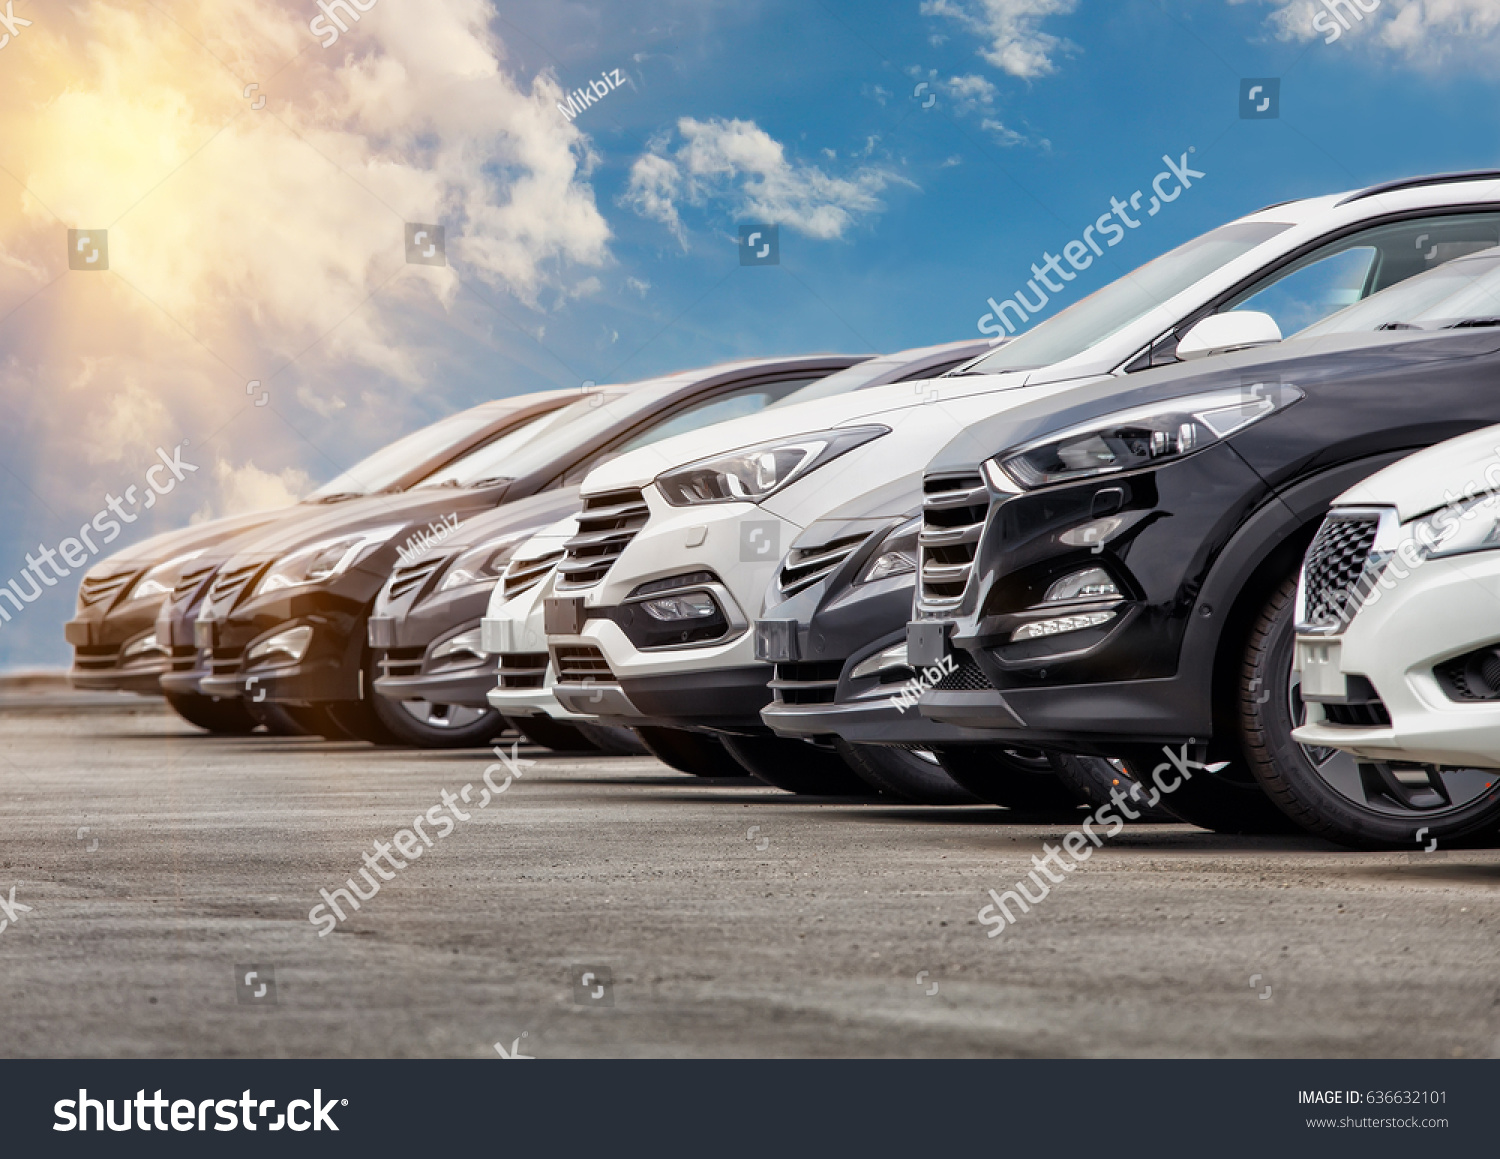
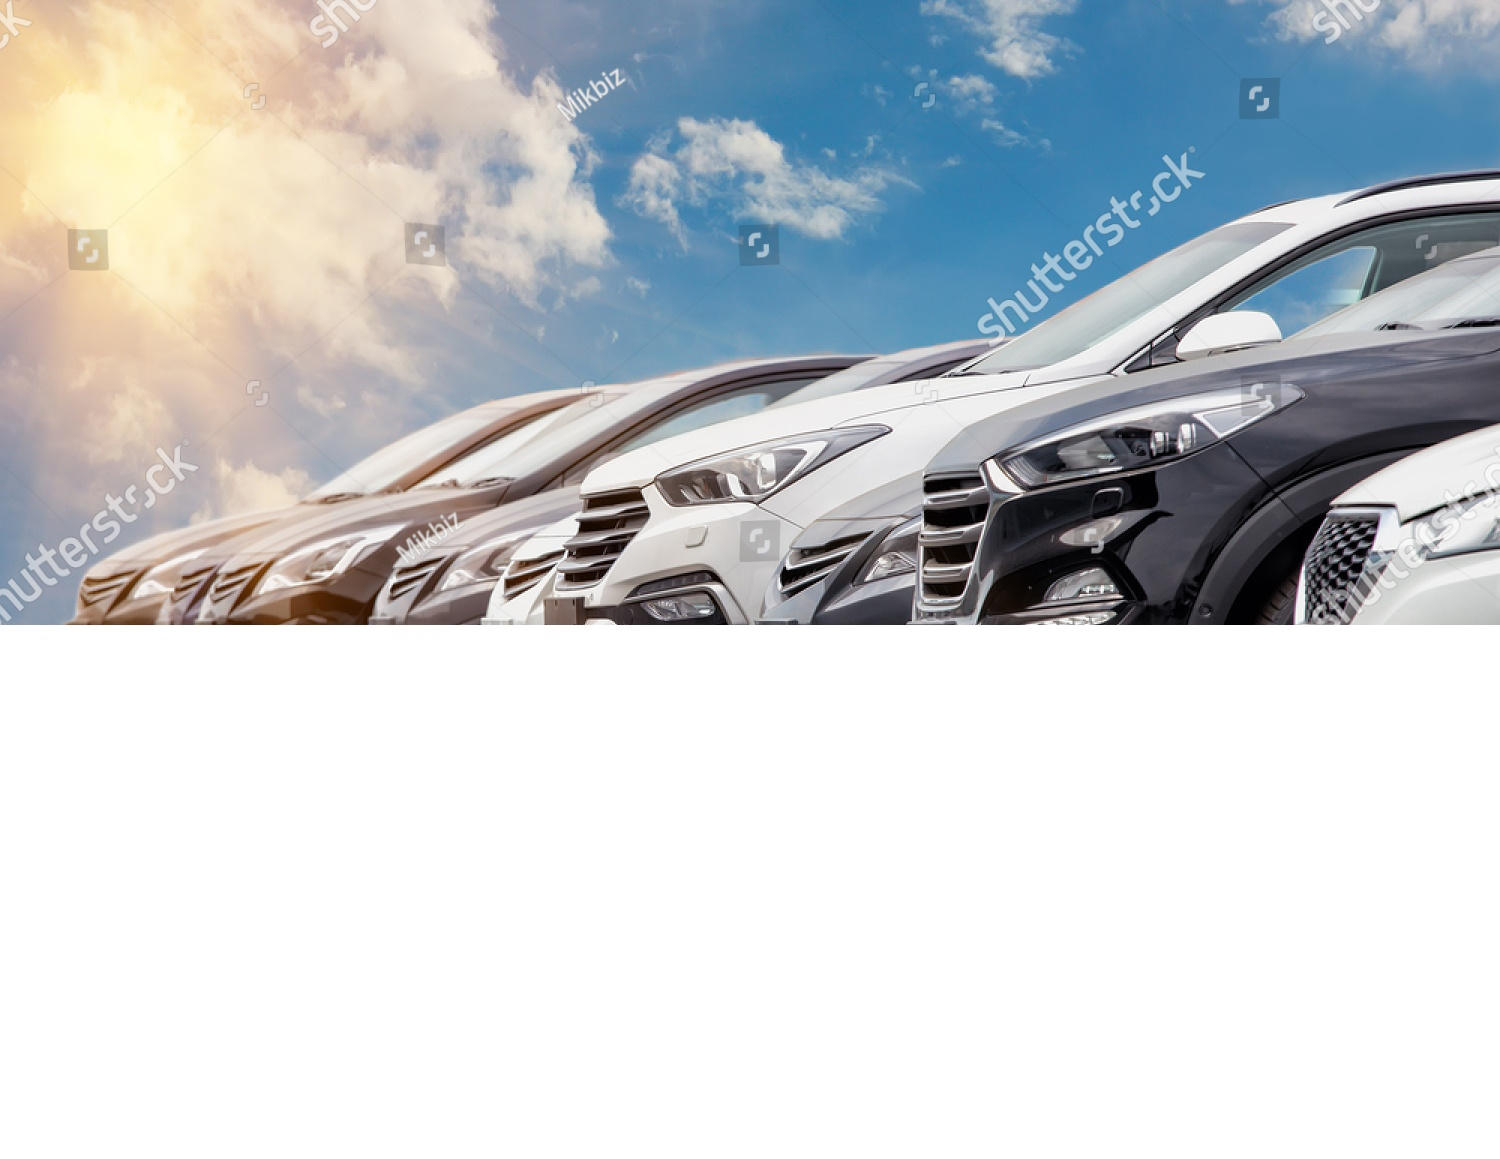
feat: update

diff --git a/index.html b/index.html
@@ -11,17 +11,16 @@
 
 <body>
     <header id="mainHeader">
-        <!-- Top Header -->
-        <div id="topHeader">
-            <!-- Main Title-->
-            <div>
+
+        <div id="topHeader"> <!-- Top header -->
+
+            <div> <!-- Main title-->
                 <a href="index.html" id="mainTitle">
                     <h1>Club Auto</h1>
                 </a>
             </div>
 
-            <!-- Address -->
-            <div id="addressSection">
+            <div id="addressSection"> <!-- Address -->
                 <img src="./images/icone-adresse.png" id="addressIcon">
                 <p>
                     <span class="topHeaderTitle title">Adresse :</span>
@@ -30,8 +29,7 @@
                 </p>
             </div>
 
-            <!-- Phone Number -->
-            <div id="phoneSection">
+            <div id="phoneSection"> <!-- Phone number -->
                 <img src="./images/icon-telephone.png" id="phoneIcon">
                 <p>
                     <span class="topHeaderTitle title">Téléphone :</span>
@@ -39,8 +37,7 @@
                 </p>
             </div>
 
-            <!-- Opened Days & Hours -->
-            <div>
+            <div> <!-- Opened days & hours -->
                 <p>
                     <span class="topHeaderTitle title">Ouverture :</span>
                     <span class="topHeaderContent"> Du Lundi au Samedi</span>
@@ -50,20 +47,48 @@
             </div>
 
             <div id="socialsBadges">
-                <!-- Facebook Icon -->
-                <a href="https://facebook.com" target="_blank">
+
+                <a href="https://facebook.com" target="_blank"> <!-- Facebook icon -->
                     <div class="topHeaderIcon">
                         <img src="./images/facebook.png" class="topHeaderIconImage">
                     </div>
                 </a>
-                <!-- Twitter Icon -->
-                <a href="https://x.com" target="_blank">
+
+                <a href="https://x.com" target="_blank"> <!-- Twitter icon -->
                     <div class="topHeaderIcon">
                         <img src="./images/twitter.png" class="topHeaderIconImage">
                     </div>
                 </a>
             </div>
-        </div>
+        </div> <!-- End of the top header -->
+
+        <div id="bottomHeader"> <!-- Bottom header -->
+            <nav> <!-- Nav bar -->
+                <ul>
+                    <div>
+                        <a href="#">
+                            <li class="currentButton">Accueil</li>
+                        </a>
+                    </div>
+                    <div>
+                        <a href="#">
+                            <li>Vente</li>
+                        </a>
+                    </div>
+                    <div>
+                        <a href="#">
+                            <li>Location</li>
+                        </a>
+                    </div>
+                    <div>
+                        <a href="#">
+                            <li>Contact</li>
+                        </a>
+                    </div>
+                </ul>
+            </nav>
+        </div> <!-- End of the bottom header-->
+        <img src="./images/vehicule1.jpg" id="bottomHeaderBackground">
     </header>
 </body>
 

diff --git a/css/global.css b/css/global.css
@@ -80,6 +80,7 @@ body {
     margin-top: 20px;
     height: 45px;
     width: 45px;
+    margin-right: 5px;
 }
 
 #phoneNumber {
@@ -106,4 +107,41 @@ body {
     width: 20px;
     height: 20px;
     color: white;
+}
+
+body nav {
+    position: absolute;
+    width: 100vw;
+    opacity: 0.85;
+    display: flex;
+    justify-content: flex-end;
+    background-color: var(--white);
+    box-shadow: 0 3px 3px #d1d1d1;
+}
+
+body nav ul {
+    display: flex;
+    list-style-type: none;
+    margin: 0px;
+    margin-right: 200px;
+}
+
+body nav ul a {
+    text-decoration: none;
+}
+
+body nav ul li {
+    color: var(--black);
+    text-transform: uppercase;
+    font-weight: bold;
+    padding: 22px;
+}
+
+.currentButton {
+    background-color: var(--orange);
+    color: var(--white);
+}
+
+#bottomHeaderBackground {
+    width: 100vw;
 }
